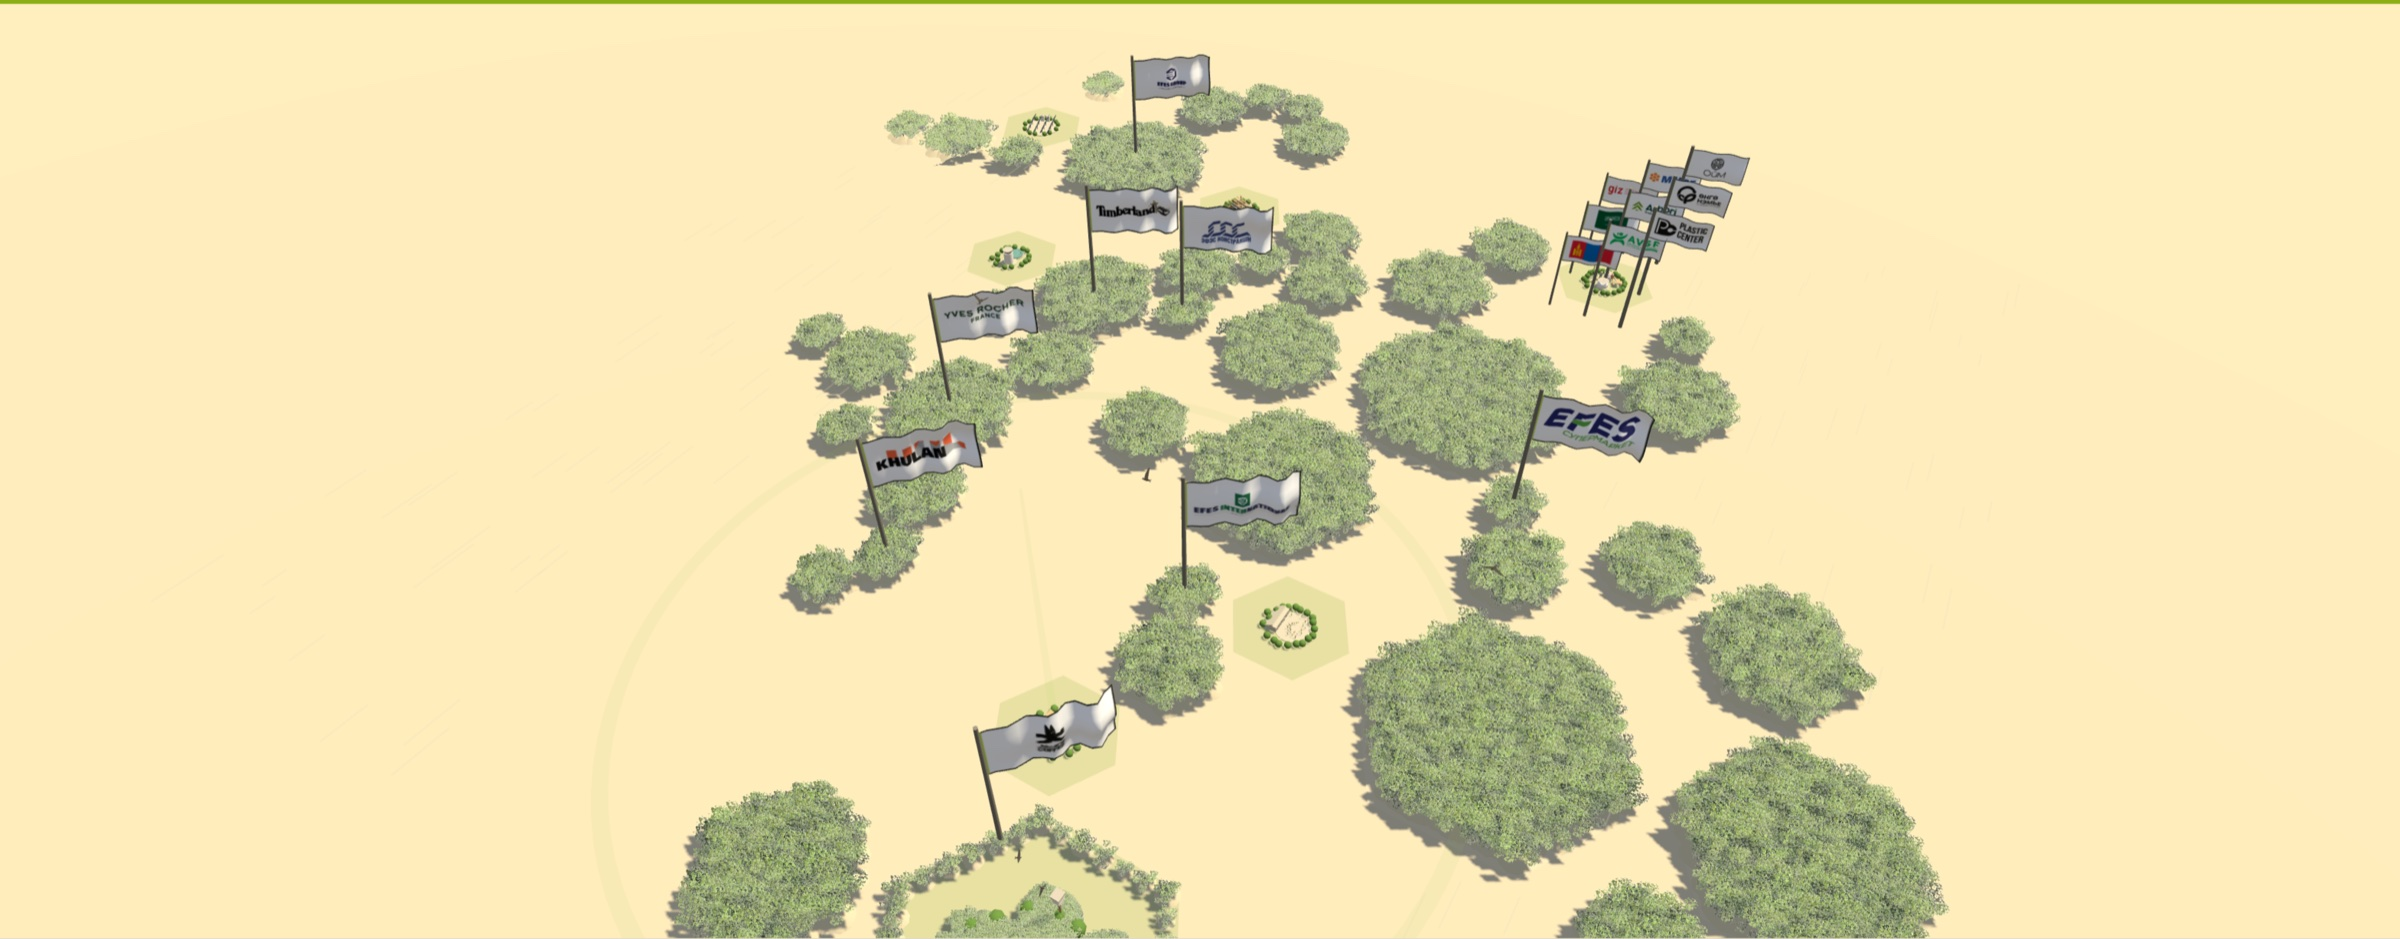
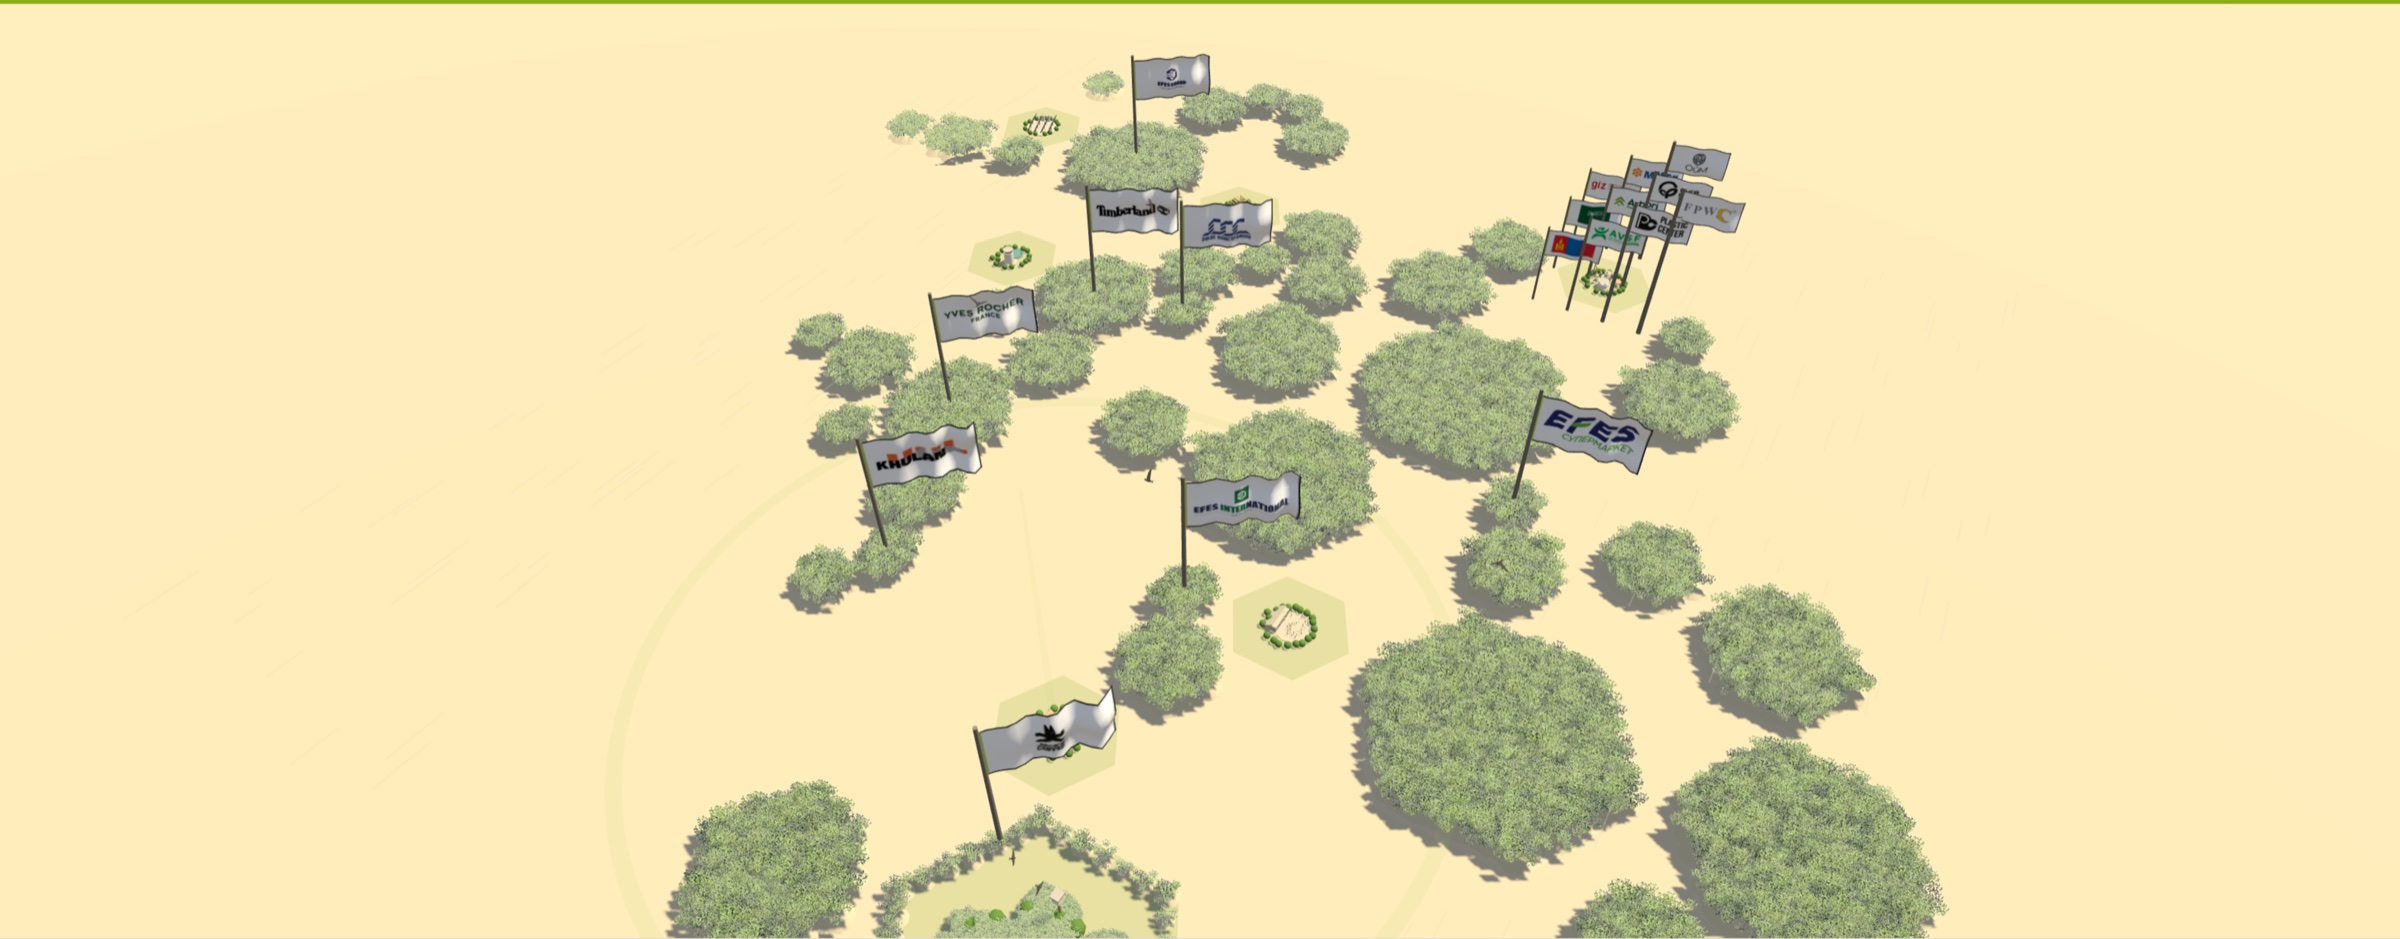
Add FPWC to the register and the delegation grove
The Foundation for Preservation of Wildlife and Cultural Assets, Yerevan, takes
a place on the delegation grove alongside GIZ and AVSF: another organisation
holding trees on AR rather than a cell of its own.

Its mark is taken from fpwc.org and needs no ink variant — it is grey and gold
on transparent, so it reads on the light card and on the white cloth without
being redrawn, unlike the partner-strip logos that had to be flipped.

The wall count goes to seventeen, the cluster on AR to ten, and the caption on
the cell names it among the organisations. The hero is re-rendered because the
line under it promises every member's flag is on its own cell, and a picture of
nine when there are ten is a picture that argues with its own caption.

diff --git a/community.html b/community.html
@@ -108,7 +108,7 @@
     <div class="wall">
       <div class="wall-head">
         <h2>Who holds the ground</h2>
-        <p class="sub">Sixteen organisations, each on a numbered cell at Erdene sum, Dornogovi.
+        <p class="sub">Seventeen organisations, each on a numbered cell at Erdene sum, Dornogovi.
           Every cell is measured on its own and reported once a year for ten years.</p>
         <!-- Хайлт нь урсалтыг зогсооно: хөдөлж буй мөрөөс нэрийг барьж уншина гэдэг
              хэрэглэгчийг гүйцэх тоглоом тоглуулж байгаатай адил. Бичихээ болиход
@@ -208,6 +208,12 @@
           <a class="holder-link" href="https://www.mmse.mn/" target="_blank" rel="noopener noreferrer">
             <span class="holder-mark"><img src="assets/images/partner/delegations/mmse.png" alt="MMSE" loading="lazy"></span>
             <b>MMSE</b><span class="cell">Cell AR</span>
+          </a>
+        </li>
+        <li class="holder">
+          <a class="holder-link" href="https://fpwc.org/" target="_blank" rel="noopener noreferrer">
+            <span class="holder-mark"><img src="assets/images/partner/delegations/fpwc.png" alt="FPWC" loading="lazy"></span>
+            <b>FPWC</b><span class="cell">Cell AR</span>
           </a>
         </li>
         <li class="holder">

diff --git a/index.html b/index.html
@@ -1700,8 +1700,8 @@
             through the delegation pavilion in the Blue Zone at COP17 — the part of the
             conference where the negotiating is done — so the cell is a record of who was in the
             room. Small flags mark who holds what: Mongolia and Saudi Arabia
-            among the delegations, GIZ, AVSF, Arbori and MMSE among the organisations, and the
-            companies that hold cells elsewhere on this site. A named tree with a fixed position is the unit
+            among the delegations, GIZ, AVSF, FPWC, Arbori and MMSE among the organisations, and
+            the companies that hold cells elsewhere on this site. A named tree with a fixed position is the unit
             here as everywhere else; what is different is that this cell is held in common.</span>
         </figcaption>
       </figure>

diff --git a/assets/js/land-art-scenes.js b/assets/js/land-art-scenes.js
@@ -573,7 +573,8 @@ function init3D(){
          Цагаан даавуун дээр үл харагдах тул бэхэн хувилбарыг тусад нь хийв. */
       {url:DLG+'plastic-center.png', ar:2.595},
       {url:DLG+'ongo-nemye.png',     ar:2.050},
-      {url:DLG+'oim.png',            ar:1.027}
+      {url:DLG+'oim.png',            ar:1.027},
+      {url:DLG+'fpwc.png',           ar:3.394}
     ]
   };
   /* Логог цагаан даавуун дээр буулгана: PNG-үүд тунгалаг дэвсгэртэй тул шууд
